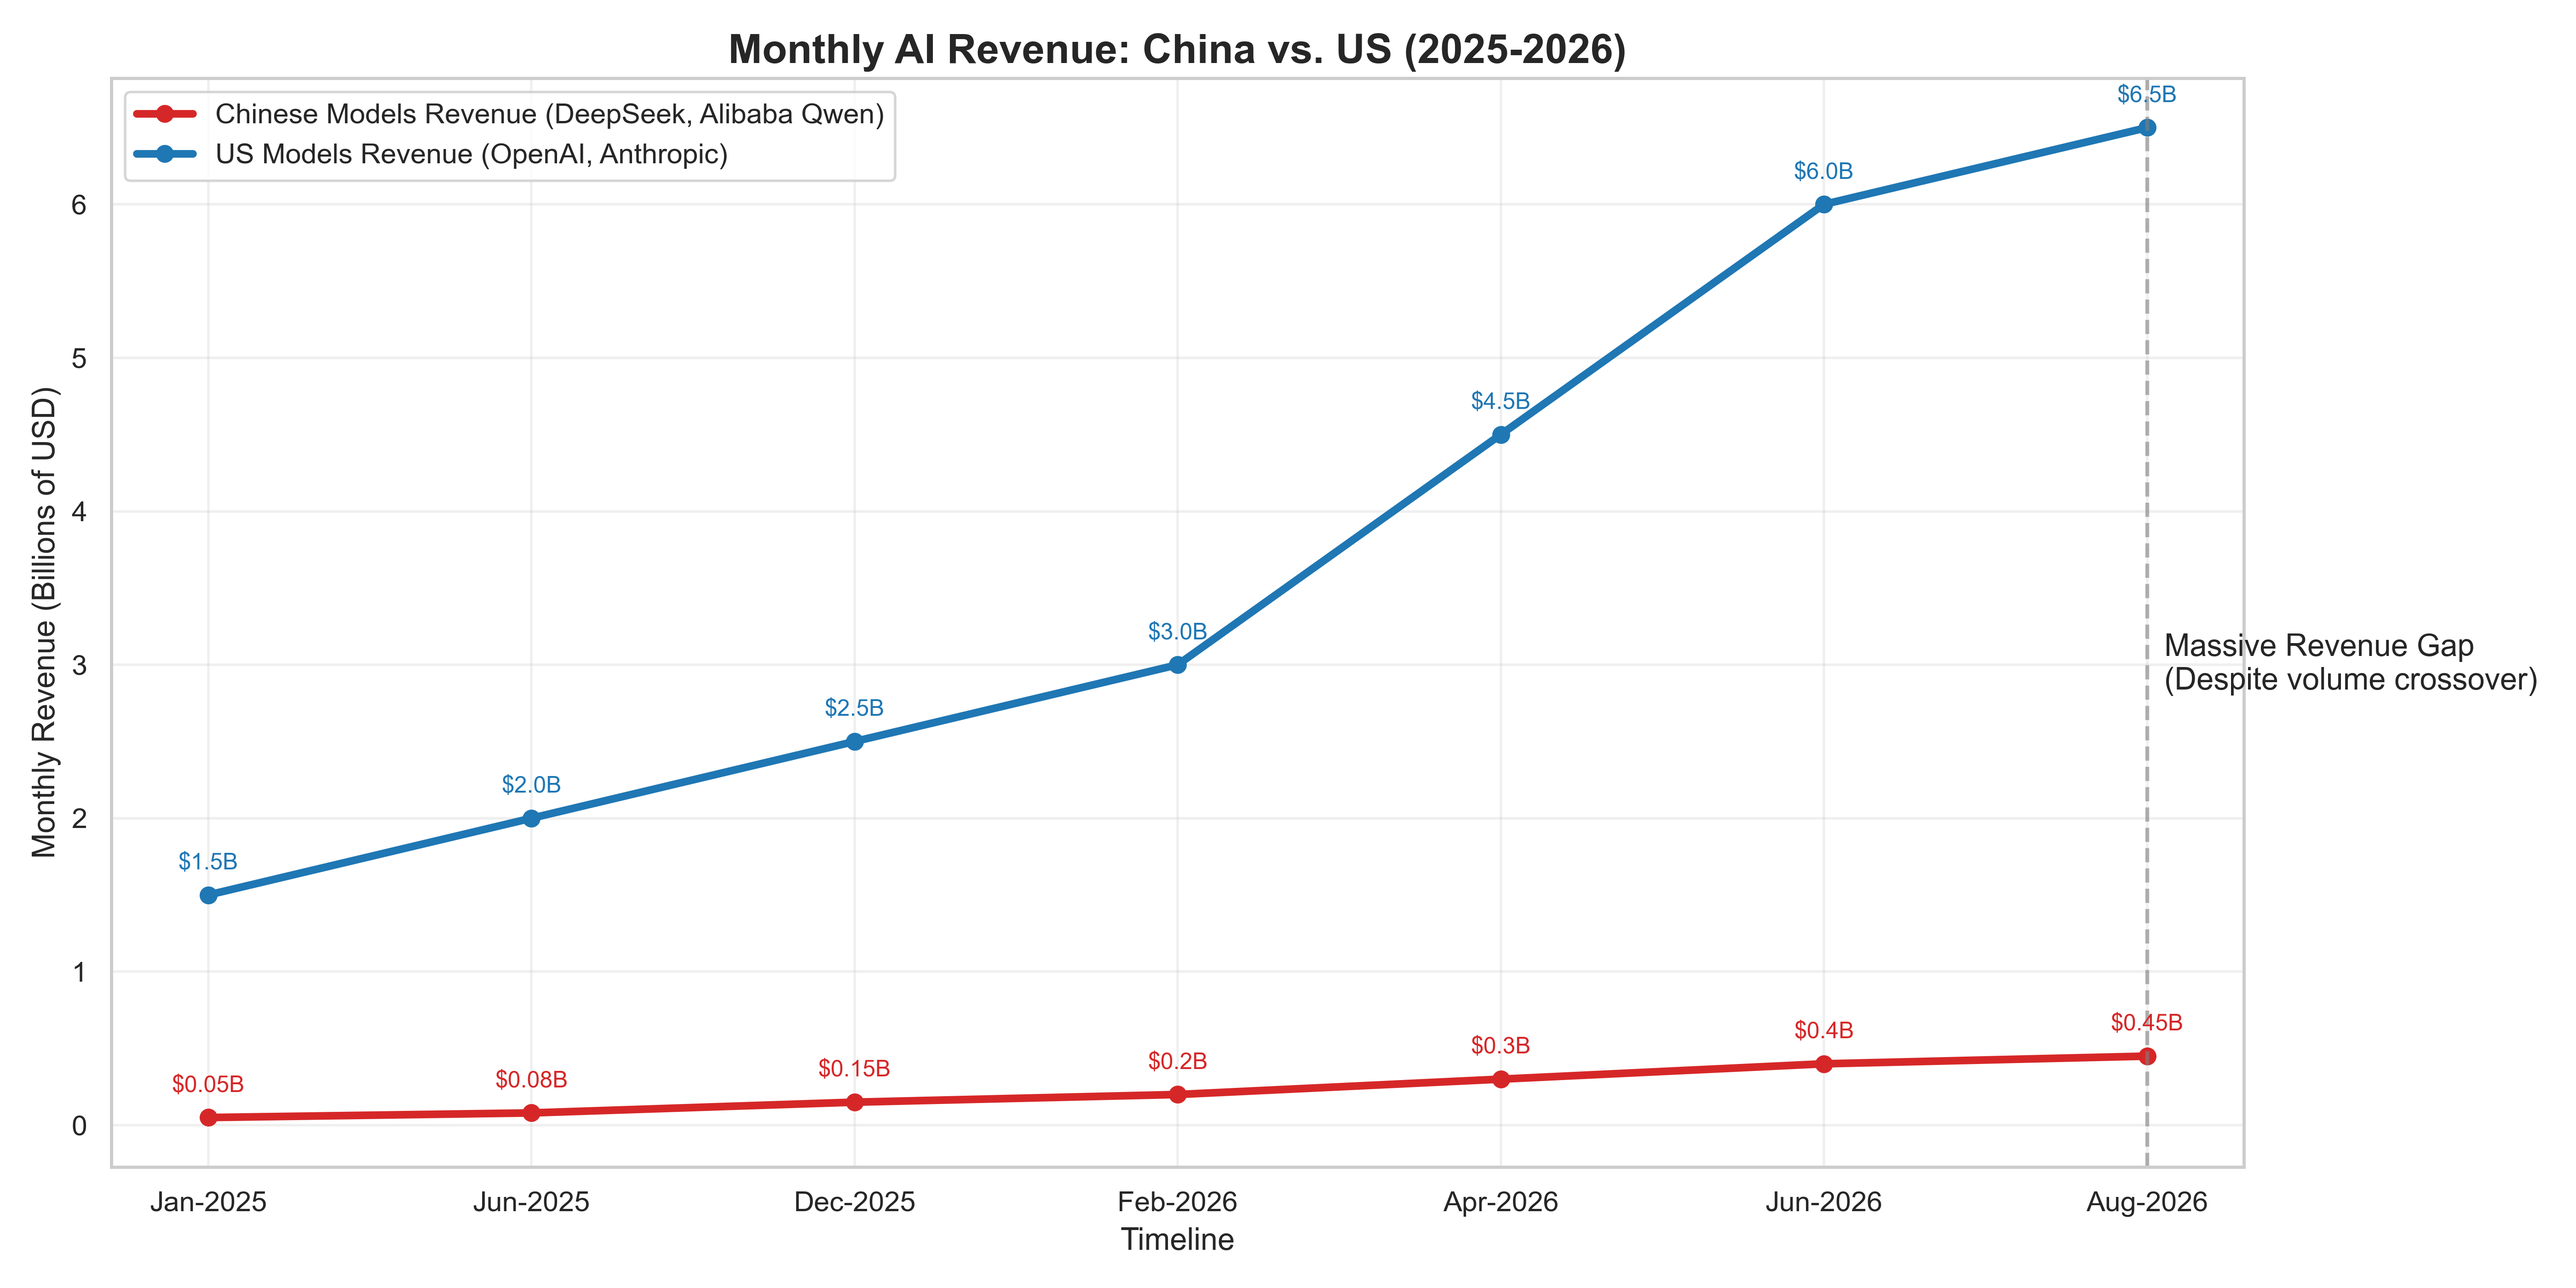
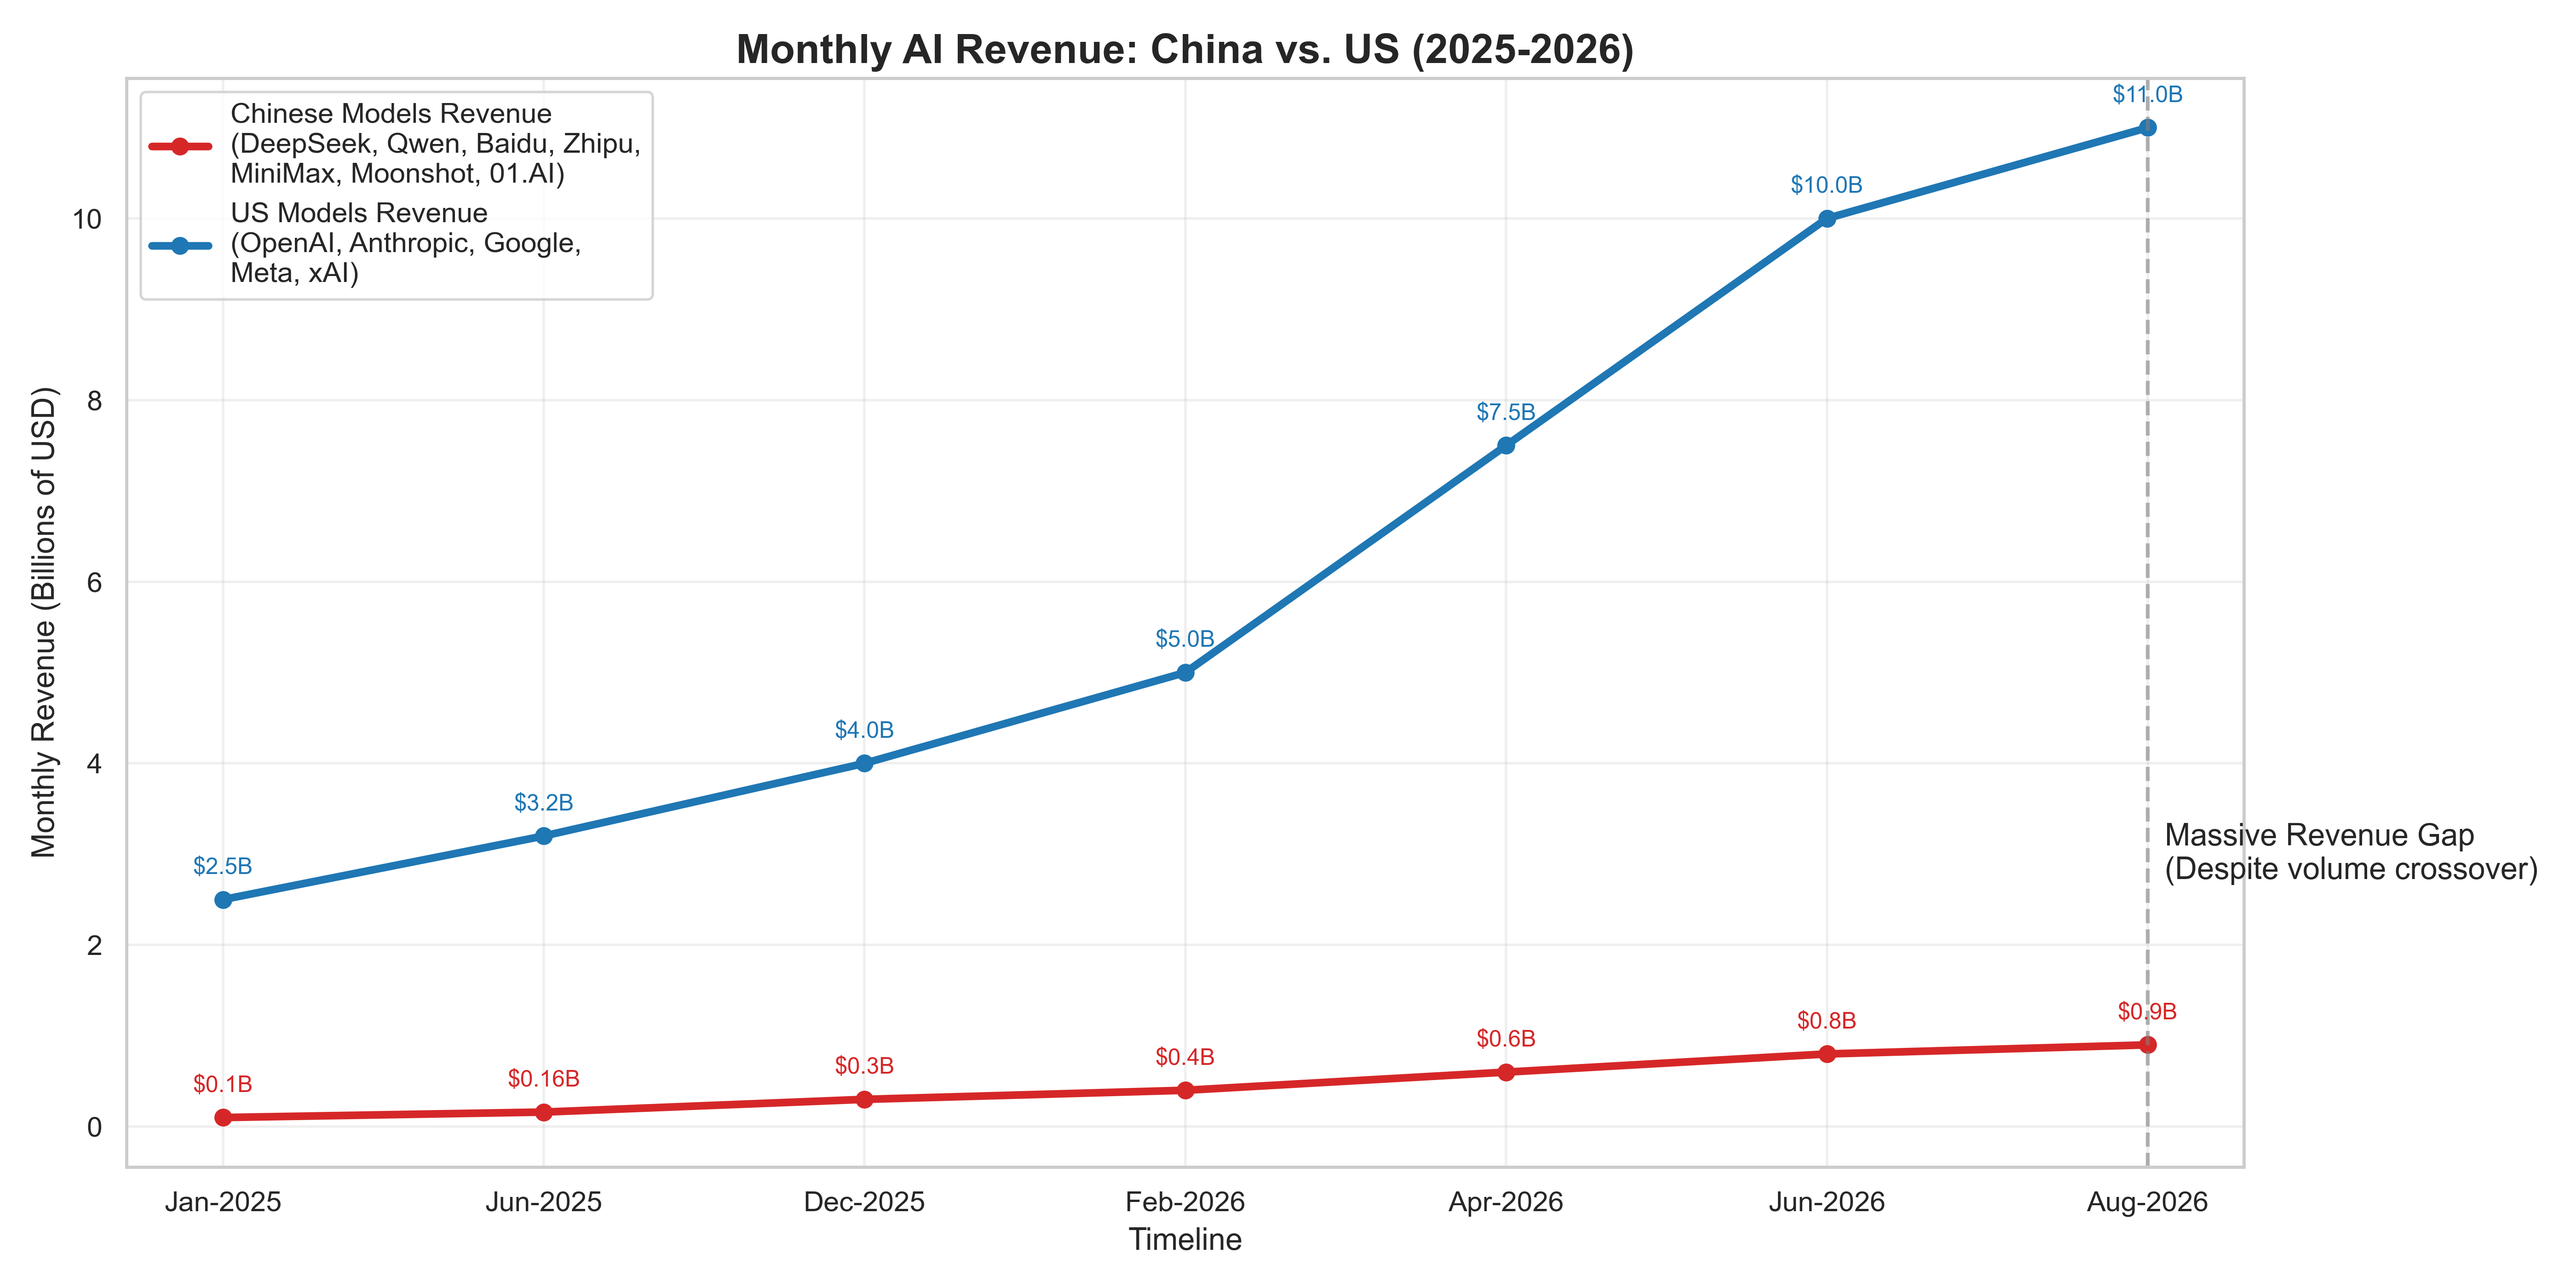
data_fixing

diff --git a/China_vs_USA_revenue.py b/China_vs_USA_revenue.py
@@ -15,8 +15,8 @@ data = {
         "Aug-2026",
     ],
     # Estimated monthly revenue in Billions (B)
-    "China_Revenue_B": [0.05, 0.08, 0.15, 0.20, 0.30, 0.40, 0.45],
-    "US_Revenue_B": [1.5, 2.0, 2.5, 3.0, 4.5, 6.0, 6.5],
+    "China_Revenue_B": [0.10, 0.16, 0.30, 0.40, 0.60, 0.80, 0.90],
+    "US_Revenue_B": [2.5, 3.2, 4.0, 5.0, 7.5, 10.0, 11.0],
 }
 
 df = pd.DataFrame(data)
@@ -32,7 +32,7 @@ plt.plot(
     marker="o",
     linewidth=3,
     color="#d62728",
-    label="Chinese Models Revenue (DeepSeek, Alibaba Qwen)",
+    label="Chinese Models Revenue\n(DeepSeek, Qwen, Baidu, Zhipu,\nMiniMax, Moonshot, 01.AI)",
 )
 plt.plot(
     df["Date"],
@@ -40,7 +40,7 @@ plt.plot(
     marker="o",
     linewidth=3,
     color="#1f77b4",
-    label="US Models Revenue (OpenAI, Anthropic)",
+    label="US Models Revenue\n(OpenAI, Anthropic, Google,\nMeta, xAI)",
 )
 
 # Annotate the plotted points

diff --git a/China_vs_USA_usage.py b/China_vs_USA_usage.py
@@ -14,8 +14,8 @@ data = {
         "Aug-2026",
     ],
     # Estimated weekly token volume in Trillions (T)
-    "China_Volume_T": [0.1, 0.3, 2.5, 8.0, 15.0, 22.0, 28.1],
-    "US_Volume_T": [4.5, 5.0, 6.5, 7.8, 7.5, 6.0, 4.4],
+    "China_Volume_T": [0.15, 0.4, 3.5, 11.2, 21.0, 30.8, 39.3],
+    "US_Volume_T": [6.8, 7.5, 9.8, 11.7, 11.2, 9.0, 6.6],
 }
 
 df = pd.DataFrame(data)
@@ -31,7 +31,7 @@ plt.plot(
     marker="o",
     linewidth=3,
     color="#d62728",
-    label="Chinese Models (DeepSeek, Qwen, etc.)",
+    label="Chinese Models\n(DeepSeek, Qwen, Baidu, Zhipu,\nMiniMax, Moonshot, 01.AI)",
 )
 plt.plot(
     df["Date"],
@@ -39,7 +39,7 @@ plt.plot(
     marker="o",
     linewidth=3,
     color="#1f77b4",
-    label="US Models (OpenAI, Anthropic, etc.)",
+    label="US Models\n(OpenAI, Anthropic, Google,\nMeta, xAI)",
 )
 
 # Annotate the plotted points
